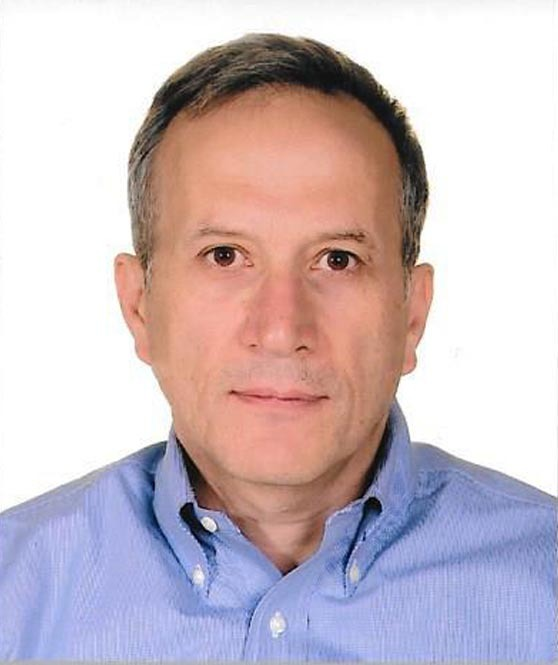
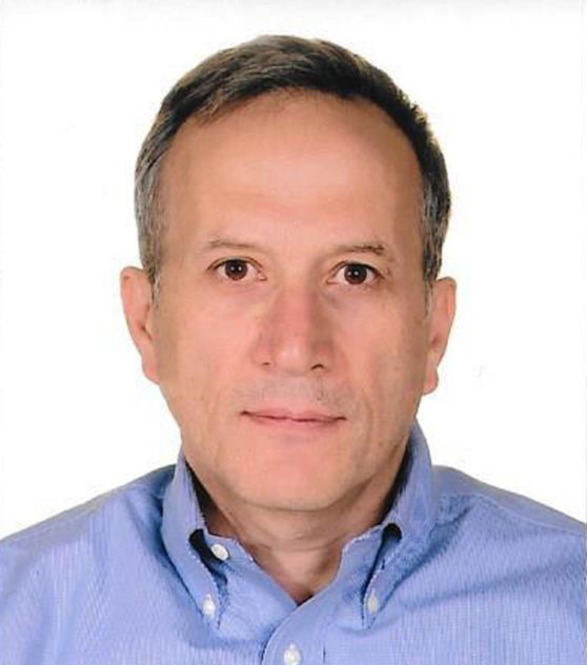
Add Images for the Directors

diff --git a/about.html b/about.html
@@ -18,7 +18,10 @@
         <!--Responsive Grid CSS-->
         <link href="./vendors/CSS/grid.css" rel="stylesheet" type="text/css" />
         <!-- Icons -->
-        <link href="https://unpkg.com/ionicons@4.5.10-0/dist/css/ionicons.min.css" rel="stylesheet">
+        <link
+            href="https://unpkg.com/ionicons@4.5.10-0/dist/css/ionicons.min.css"
+            rel="stylesheet"
+        />
         <!-- Animate CSS -->
         <link
             rel="stylesheet"
@@ -66,7 +69,9 @@
                         </li>
                         <li><a href="#directors">Directors</a></li>
                     </ul>
-                    <a class="mobile-nav-icon js--nav-icon"><i class="icon ion-ios-menu"></i></a>
+                    <a class="mobile-nav-icon js--nav-icon"
+                        ><i class="icon ion-ios-menu"></i
+                    ></a>
                 </div>
             </nav>
             <div class="hero-text-box">
@@ -141,44 +146,44 @@
             <div class="row">
                 <div class="col span-1-of-3 box">
                     <img
-                        alt="CEO"
-                        src="https://images.unsplash.com/photo-1547425260-76bcadfb4f2c?ixlib=rb-1.2.1&ixid=MnwxMjA3fDB8MHxwaG90by1wYWdlfHx8fGVufDB8fHx8&auto=format&fit=crop&w=1500&q=80"
+                        alt="ahmet"
+                        src="./resources/IMG/directors/ahmet.JPG"
                     />
                     <div class="director-feature">
                         <i class="icon ion-ios-person"></i>
-                        Preety Shah
+                        Ahmet
                     </div>
                     <div class="director-feature">
                         <i class="icon ion-ios-star"></i>
-                        C.E.O
+                        Director
                     </div>
                 </div>
                 <div class="col span-1-of-3 box">
                     <img
-                        alt="CFO"
-                        src="https://images.unsplash.com/photo-1547425260-76bcadfb4f2c?ixlib=rb-1.2.1&ixid=MnwxMjA3fDB8MHxwaG90by1wYWdlfHx8fGVufDB8fHx8&auto=format&fit=crop&w=1500&q=80"
+                        alt="devangs"
+                        src="./resources/IMG/directors/devangs.JPG"
                     />
                     <div class="director-feature">
                         <i class="icon ion-ios-person"></i>
-                        Shreeji Patel
+                        Devangs
                     </div>
                     <div class="director-feature">
                         <i class="icon ion-ios-star"></i>
-                        C.F.O
+                        Director
                     </div>
                 </div>
                 <div class="col span-1-of-3 box">
                     <img
-                        alt="COO"
-                        src="https://images.unsplash.com/photo-1547425260-76bcadfb4f2c?ixlib=rb-1.2.1&ixid=MnwxMjA3fDB8MHxwaG90by1wYWdlfHx8fGVufDB8fHx8&auto=format&fit=crop&w=1500&q=80"
+                        alt="Semih"
+                        src="./resources/IMG/directors/semih.JPG"
                     />
-                    <div class="city-feature">
+                    <div class="director-feature">
                         <i class="icon ion-ios-person"></i>
-                        Naheer Patel
+                        Semih
                     </div>
                     <div class="director-feature">
                         <i class="icon ion-ios-star"></i>
-                        C.O.O
+                        Director
                     </div>
                 </div>
             </div>

diff --git a/assets/CSS/style.css b/assets/CSS/style.css
@@ -203,7 +203,7 @@ h2:after {
     display: none;
 }
 
-.mobile-nav-icon > i{
+.mobile-nav-icon > i {
     font-size: 200%;
     color: #fff;
 }
@@ -340,6 +340,14 @@ h2:after {
     width: 100%;
     height: auto;
     margin-bottom: 15px;
+}
+
+.ion-ios-person {
+    color: #82589f;
+}
+
+.ion-ios-star {
+    color: #82589f;
 }
 
 /*------------------------------------------------------------------------*/
